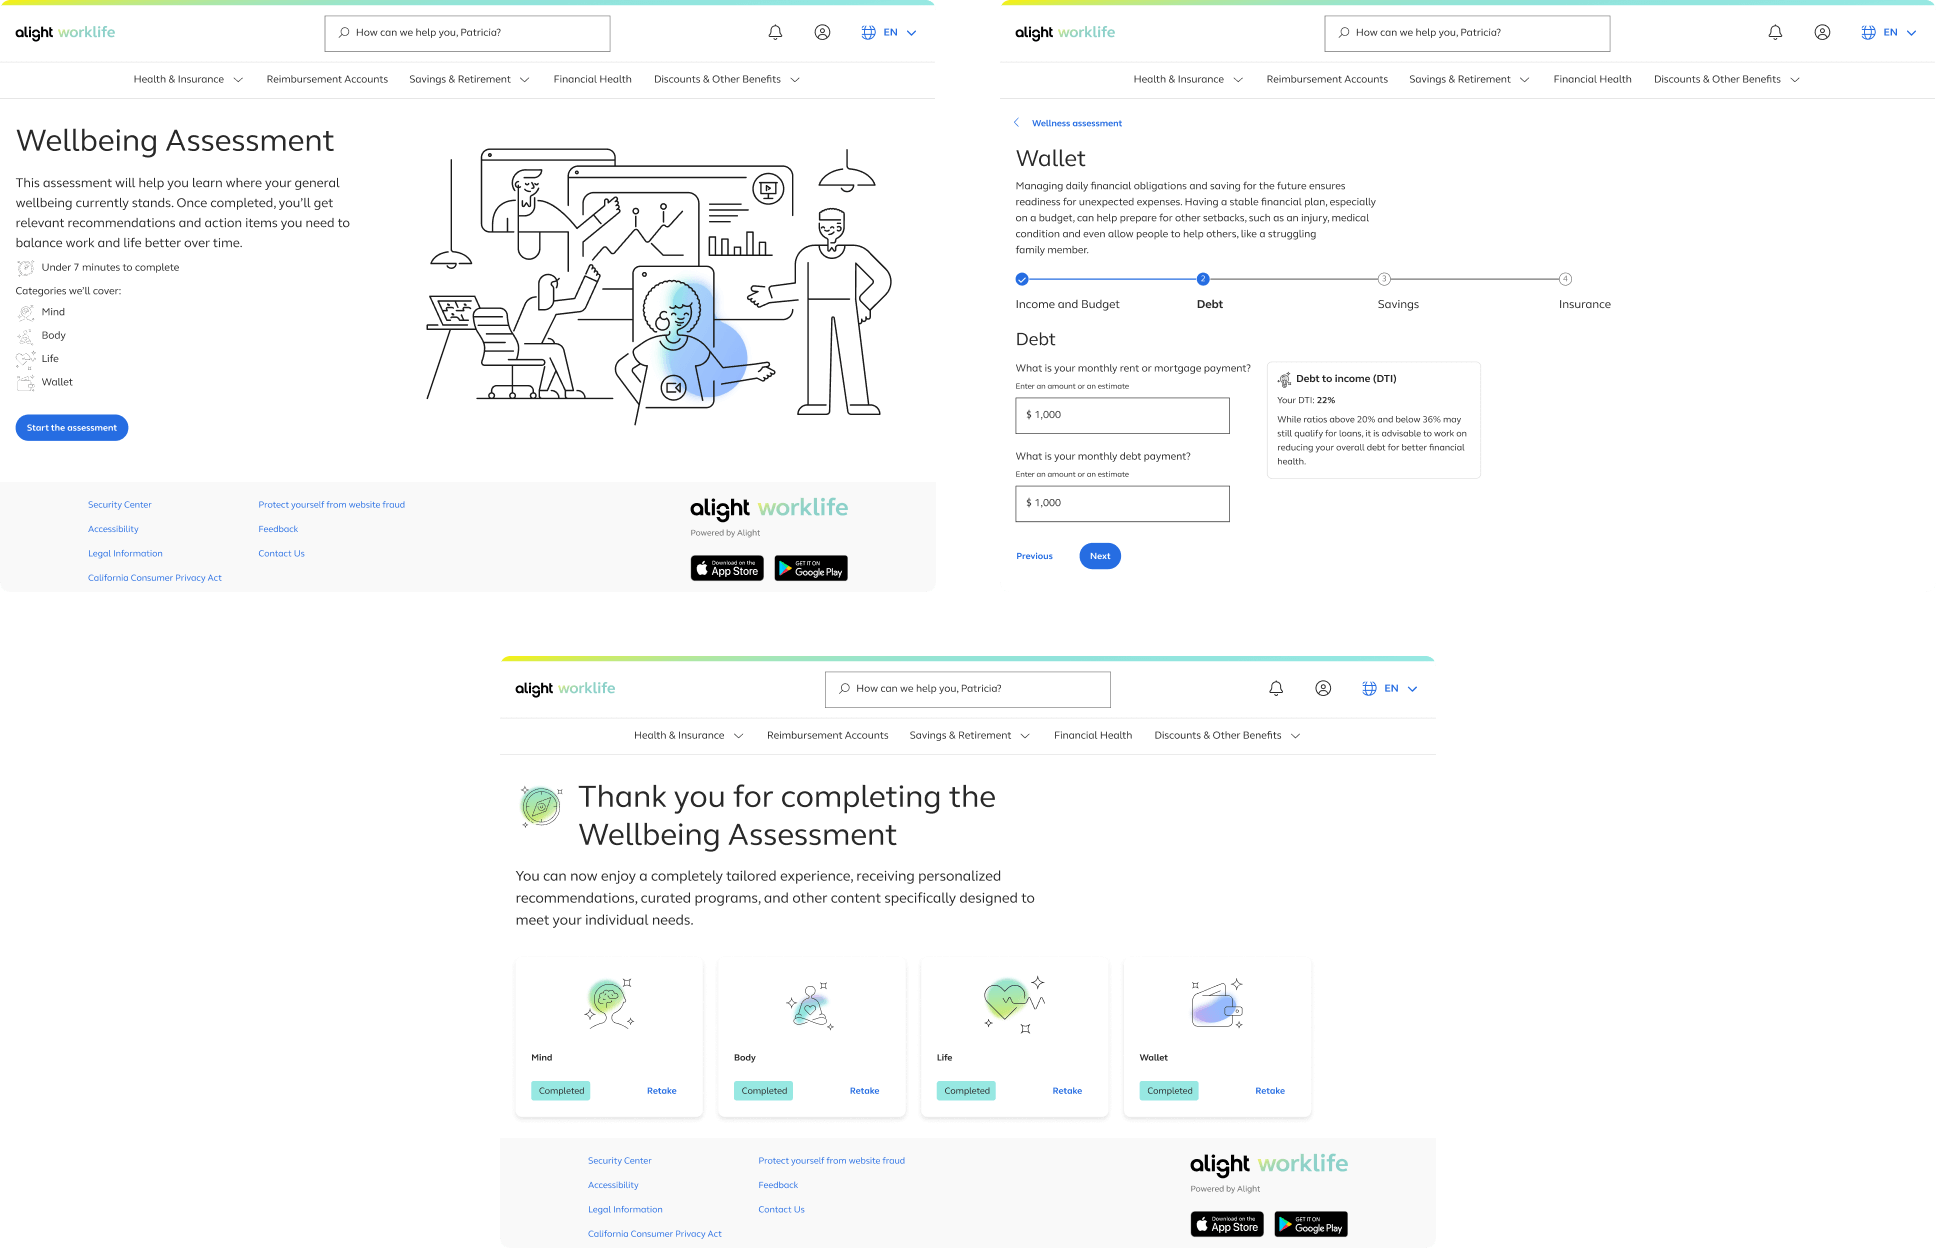
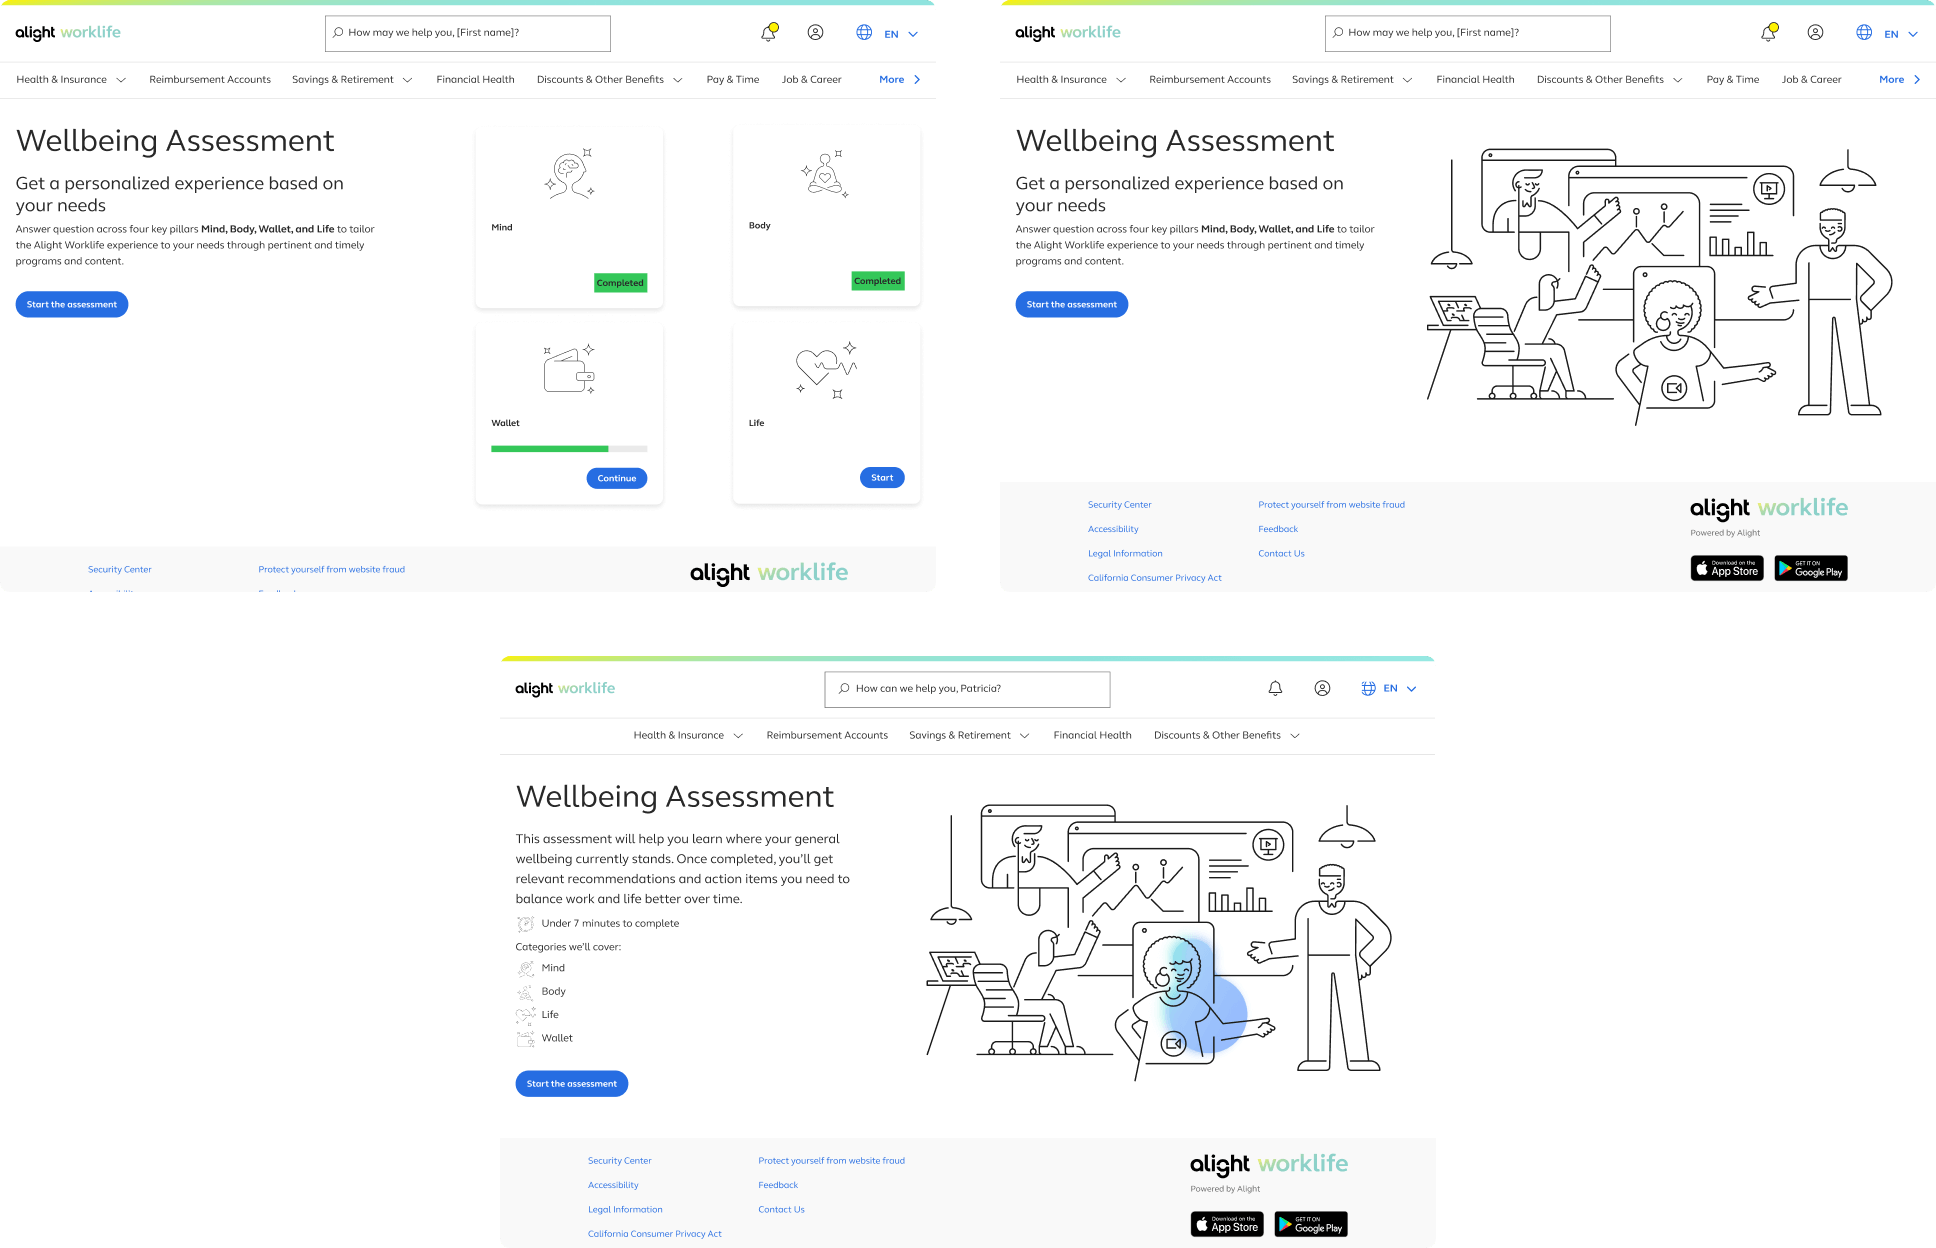
updated wA

diff --git a/WA/index.html b/WA/index.html
@@ -244,10 +244,42 @@
                     <p>At this stage, following the strategy I defined proved to be a significant success. By setting visuals aside in the 
                         first two stages, we could focus on what truly mattered. Since the assessment required a simple user interface, this stage was completed&nbsp;seamlessly.
                     </p>
+                    <br><br>
+                    <h3 class="summary">For the landing screen, we explored multiple options and chose the one that best highlighted the benefits and set clear&nbsp;expectations
+                    </h3>
+                    <p><strong>Key decisions:</strong>
+                    <ul class="bullet-list">
+                        <li>Provide a general explanation of the benefits, making it more prominent by increasing its&nbsp;size.</li>
+                        <li>Using bullet points for key topics and time to complete makes important information easier to&nbsp;spot.</li>
+                        <li>Even tought having the pillars on the right, and using them as shortcuts to get to specific areas,
+                            this option was more complicated to scale for returning users, as more changes needed to be done to the&nbsp;message.
+                        </li>
+                        <li>To maintain consistency with other assessments on the platform, we added an illustration on the right side that best communicated the completion of the assessment from our&nbsp;set.
+                        </li>
+                    </ul></p>
                     <div class="columns-container after-text">
                         <div class="column full-width-img-container">
                             <div class="image-container">
                                 <img class="no-border-radius" width="1873" height="553" class="no-lightense" src="../images/Atom/Images/Projects/WA/V1.png" alt="Some screenshots of the first version of the assessment">
+                            </div>
+                        </div>
+                    </div>
+
+                    <br><br>
+                    <h3 class="summary">
+                        The form pages were crucial, and although we wanted to better utilize the space on the right, we had to adhere to the design system&nbsp;guidelines
+                    </h3>
+                    <p><strong>Key decisions:</strong>
+                    <ul class="bullet-list">
+                        <li>Leave the right side blank to avoid distractions and maintain focus on the&nbsp;questions.</li>
+                        <li>While insights are a business requirement, they don't add significant value. Keeping them to the side minimizes&nbsp;distractions.</li>
+                        <li>Although providing a description for sensitive questions explaining how the information will be used would be ideal, due to resource limitations, a more general explanation is added under the&nbsp;title.
+                        </li>
+                    </ul></p>
+                    <div class="columns-container after-text">
+                        <div class="column full-width-img-container">
+                            <div class="image-container">
+                                <img class="no-border-radius" width="1873" height="553" class="no-lightense" src="../images/Atom/Images/Projects/WA/V11.png" alt="Some screenshots of the first version of the assessment">
                             </div>
                         </div>
                     </div>
@@ -296,6 +328,15 @@
                     <p>
                         Some findings required collaboration with multiple teams, including management and content. Regular review meetings 
                         ensured continuous feedback, allowing us to design a final version that met both user and business&nbsp;needs.
+                        <br><br>
+                        <strong>Key decisions:</strong>
+                    <ul class="bullet-list">
+                        <li>Remove the illustration and use bullet points on the landing screen to better highlight the benefits and&nbsp;timing.</li>
+                        <li>Communicate better the main benefit on the screens where this section&nbsp;appears.</li>
+                        <li>
+                            Leverage available user data to prefill some questions and reduce&nbsp;effort.
+                        </li>
+                    </ul>
                     </p>
                     <div class="columns-container after-text">
                         <div class="column full-width-img-container">
